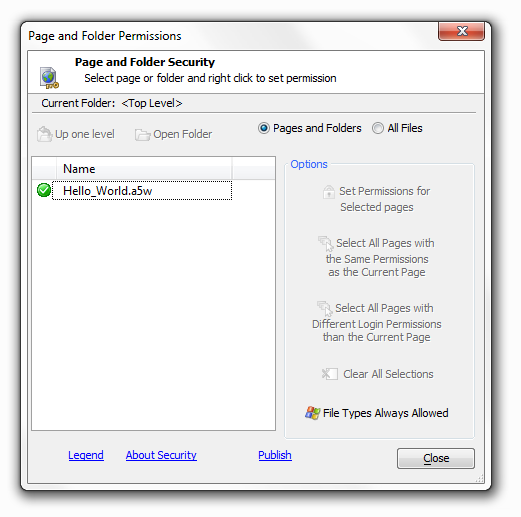
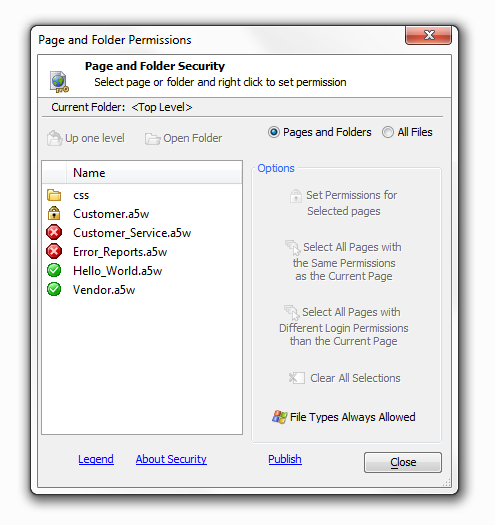
changes to security guide

diff --git a/helpfiles/Server/Guide/Design/Security/Web Application Security Guide.html b/helpfiles/Server/Guide/Design/Security/Web Application Security Guide.html
@@ -105,8 +105,6 @@ appropriate group membership.</p>
 can further require appropriate group membership. </p>
 <p>&nbsp;</p>
 <p>&nbsp;</p>
-<p>&nbsp;</p>
-<p>&nbsp;</p>
 <p>There are a number of easy to use dialogs available to configure the security 
 for a project When a project is initially created there are no security files. 
 The top menu on the Web Projects Control Panel has a Web Security Button. Open 
@@ -576,8 +574,7 @@ the option of creating your own questions.</p>
 default&nbsp; security group or groups for a new user record. This default value 
 would only be used for a new user if no groups were included in the data 
 submitted for the new user. The default group will only be added to new users 
-added by running on the application server. <font color="#FF0000">How to 
-activate security ?</font></p>
+added by running on the application server. </p>
 <p>&nbsp;</p>
 <p><u><i>Enable external user identifier field</i></u>. This option will enable 
 a special field named 'ulink'. The value entered in the 'ulink' can identify a 
@@ -674,14 +671,14 @@ will appear.</p>
 <p align="center">
 <img border="0" src="images/A_Add%20New%20User.png" width="461" height="215"></p>
 <p align="left">2. Enter the User's ID and Email address.</p>
-<p align="left">3. Click Ok. If the email address is not valid you should get 
+<p align="left">3. Click Ok. Adding a user does require a valid email address. If the email address is not valid you should get 
 the following error message.</p>
 <p align="center">
 <img border="0" src="images/A_User%20Error.png" width="304" height="190"></p>
 <p align="left">&nbsp;</p>
 <p>&nbsp;</p>
 <p>&nbsp;</p>
-<p><u><i>Edit User</i></u> -</p>
+<p><u><i>Edit User</i></u> - </p>
 <p><u><i>Delete User</i></u> -</p>
 <h4>Groups</h4>
 <p><u><i>Add Group</i></u> -</p>
@@ -721,7 +718,7 @@ the following error message.</p>
 
 
 <p align="center">
-<img border="0" src="images/A_Page_Folder_Security.png" width="521" height="517"></p>
+<img border="0" src="images/A_Page_Folder_Security.png" width="495" height="525"></p>
 
 <p align="center">Page Security Tab</p>
 <a name="Overview of Page Security"></a><h4>Overview of Page Security</h4>
@@ -771,27 +768,98 @@ additional security options are tested.</p>
 	<p>- Folder permissions are NOT checked for any pages or files in the folder 
 	that have permission set at the page level to 'allow' or to 'login'. Page 
 	permission takes precedence over folder permissions. </p>
-	<p>&nbsp;</p>
 </blockquote>
-<p>&nbsp;</p>
-<p>&nbsp;</p>
 <h4>Implementing Page and Folder Security</h4>
 
-<font color="#FF0000"><u><i>Up one level
+<u><i>Up one level
 
-</i></u>- </font>
-<p><font color="#FF0000"><u><i>Open folder</i></u> - </font></p>
-<p><font color="#FF0000"><u><i>Pages and folders radio button</i></u> - </font>
-</p>
-<p><font color="#FF0000"><u><i>All Files radio button</i></u> - </font></p>
-<p><font color="#FF0000"><u><i>Set Permissions for Selected pages</i></u> -</font></p>
-<p><font color="#FF0000"><u><i>Select All pages with the same Permissions as the 
-Current Page</i></u> - </font></p>
-<p><font color="#FF0000"><u><i>Select All Pages with Different Login Permissions 
-than the Current Page</i></u> -</font></p>
-<p><font color="#FF0000"><u><i>Clear All Selections</i></u> -</font></p>
+</i></u>- Move up one folder level for folders that show up in the 'Page and 
+Folder Permissions' tab.<p>&nbsp;</p>
+<p><u><i>Open folder</i></u> - Open a highlighted folder.</p>
+<p>&nbsp;</p>
+<p><u><i>Pages and folders radio button</i></u> - Shows only pages and folders 
+in the 'Page and Folder Permissions' tab.</p>
+<p>&nbsp;</p>
+<p><u><i>All Files radio button</i></u> - Reveals all files in a given folder, 
+like .png files for example.</p>
+<p>&nbsp;</p>
+<p><u><i>Select All pages with the same Permissions as the 
+Current Page</i></u> - </p>
+<p>&nbsp;</p>
+<p>1. Left click on a page in the 'Page and Folder Permissions' tab. The 'Select 
+All Pages with the Same Permissions as the Current Page' should light up. </p>
+<p align="center">
+<img border="0" src="images/A_PagePermission.png" width="407" height="147"></p>
+<p align="left">&nbsp;</p>
+<p align="left">2. Click on the 'Select All Pages with the Same Permissions as 
+the Current Page' option under the options menu. Now all pages that have the 
+same permission should be highlighted. </p>
+<p align="center">
+<img border="0" src="images/A_PagePermissionAllPages.png" width="408" height="147"></p>
 <p>&nbsp;</p>
 <p>&nbsp;</p>
+<p><u><i>Set a Permission for an Individual Page</i></u> - </p>
+<p>1. Left click on a page to highlight it.</p>
+<p>2. Right click to show the three permission options; 'Always Denied', 'Always 
+Allowed', and 'Requires Login'.</p>
+<p align="center">
+<img border="0" src="images/A_PermissionList.png" width="407" height="151"></p>
+<p align="left">3. Select the option you wish, the selected page should now have 
+this option set as its permission.</p>
+<p>&nbsp;</p>
+<p><u><i>Set Permissions for Selected pages</i></u> - </p>
+<p>&nbsp;</p>
+<p>1. Left click on a page in the 'Page and Folder Permissions' tab. The 'Select 
+All Pages with the Same Permissions as the Current Page' should light up. </p>
+<p align="left">&nbsp;</p>
+<p align="left">2. Click on the 'Select All Pages with the Same Permissions as 
+the Current Page' option under the options menu. Now all pages that have the 
+same permission should be highlighted. The 'Set Permissions for Selected pages' 
+option will become active. </p>
+<p align="center">
+<img border="0" src="images/A_PagePermissionAllPages.png" width="408" height="147"></p>
+<p align="left">3. Click on the 'Set Permissions for Selected pages' option. A 
+list will open with three options: 'Always Denied', 'Always Allowed', and 
+'Requires Login'. Click on the permission you wish to set. All of the files 
+selected should now be set to that permission.</p>
+<p align="center">
+<img border="0" src="images/A_PagePermissionAllPagesDenied.png" width="408" height="183"></p>
+<p align="left">&nbsp;</p>
+<p align="left"><b>Note</b>: If a page is defined as a redirect page in the 
+security settings it must always be allowed. In this example Hello_World.a5w is 
+a redirect page and so can not be altered directly in the 'Page and Folder 
+Permissions' tab. In fact, if you click on a redirect page Alpha Anywhere will 
+only show one option 'Always Allowed by Current Security Settings' on you 
+permissions list.</p>
+<p align="center">
+<img border="0" src="images/A_RedirectPage.png" width="417" height="42"></p>
+<p align="left">&nbsp;</p>
+<p align="left"><u><i>Set Permissions for Pages within Folders</i></u> -</p>
+<p align="left">&nbsp;</p>
+<p align="left">1. Left click on a folder so that it is highlighted.</p>
+<p align="left">2. Right click on the highlighted folder. A list of permission 
+options should appear; 'Deny by Folder', 'Allow All Files in Folder', 'Allow All 
+Files in Folder with Login', and 'Allow Files by Type'.</p>
+<p align="center">
+<img border="0" src="images/A_FolderPermission.png" width="410" height="229"></p>
+<p align="left">3. Click to choose a permission. </p>
+<p align="left">&nbsp;</p>
+<p align="left"><u><i>Allow Files by Type</i></u> - </p>
+<p>&nbsp;</p>
+<p>&nbsp;</p>
+<p><u><i>Select All Pages with Different Login Permissions 
+than the Current Page</i></u> - </p>
+<p>&nbsp;</p>
+<p>1. Left click on a page that has a login option placed on it. If a page has a 
+login required a small lock icon should appear to the left of the file name. The 
+'Select All Pages with Different Login Permissions than the Current Page' option 
+should light up when you do this.</p>
+<p>&nbsp;</p>
+<p>2. Click the 'Select All Pages with Different Login Permissions than the 
+Current Page' option.</p>
+<p>&nbsp;</p>
+<p><u><i>Clear All Selections</i></u> - Clears the selection option on any file 
+selected.</p>
 <p>&nbsp;</p>
 <p><u><i>Page Security Legend </i></u></p>
 <p align="center">
@@ -1092,10 +1160,107 @@ session variable to hold a value from the user security table 'ulink' field if
 the field is activated. This information could then be used for other purposes, 
 such&nbsp;as&nbsp;filtering records for display. 
 &nbsp;</p>
+<a name="Summary"></a><h2>Summary</h2>
+
+<p>Web Application Security provides these high level capabilities.</p>
+<p>&nbsp;</p>
+<p><u><i>Architecture</i></u> - The Application Server enforces all security. 
+There is no need to publish any user access tables. The Application Server tests 
+every page and file request. The developer does not need to write any code or 
+place any code on pages. You may enable or disable security with a single 
+setting in the Application Server Control Panel. Security settings are unique to 
+each project.</p>
+<p>&nbsp;</p>
+<p><u><i>Login</i></u> - Login is an essential first step to providing any type 
+of application security. Login identifies the user and requires a user name. 
+Login may optionally also require a password. The new Login Component Builder 
+simplifies the process of building login dialog components and enforcing login 
+policies. Important password options include:
+</p>
+<blockquote>
+	<p>-You may set rules for validating acceptable login names.
+</p>
+	<p>-You may define when logins expire.
+</p>
+	<p>-You may lock out a user after N failed login attempts.
+</p>
+	<p>-You may log login activity.
+</p>
+	<p>-You may set rules for recovery of lost user names.
+</p>
+	<p>-When login fails, you may redirect all users to a specific page.
+</p>
+	<p>-When a logged in user permission does not allow access to a specific page, you 
+may redirect the user to the the login page or to another page.
+</p>
+	<p>-When login succeeds, you may redirect all users to the same page or each user to 
+a specific page.
+</p>
+	<p>-You may set rules for recovery of lost login names.</p>
+</blockquote>
+<p><u><i>Passwords</i></u> - Passwords are an default part of the login process. 
+Important password options include:
+</p>
+<blockquote>
+	<p>-You may encrypt passwords.
+</p>
+	<p>-You may set rules for validating acceptable passwords.
+</p>
+	<p>-Passwords may expire after a specified period of time.
+</p>
+	<p>-You may prevent passwords from being reused.
+</p>
+	<p>-You may set rules for recovery of lost passwords.</p>
+</blockquote>
+<p><u><i>Users and Groups</i></u> - A user may belong to one or more groups. You 
+may grant access to a page, a control on a component, or a menu entry to one or 
+more groups. Whether or not a user belongs to a group depends on whether it is 
+important to selectively provide access to specific pages.</p>
+<p>&nbsp;</p>
+<p><u><i>Login Component</i></u> - The Login Component Builder provides support 
+for nearly every login option.
+The Login View presents the familiar request for user ID and, optionally, 
+password.
+The optional Change Password View allows a user to change a password.
+The optional Recover Login Information allows a user to make a request for user 
+ID and/ or password.
+Each view may have its own style sheet.
+All views may have Freeform designs.
+You may customize all text used in the login component to support non-English 
+language applications.</p>
+<p>&nbsp;</p>
+<p><u><i>Pages</i></u> - There are many aspects of page security.
+You may place the pages of your web application into one of three categories: 
+access not defined, login not required, and login required.
+If a page requires login, you must specify one or more groups of users which are 
+allowed to access the page.</p>
+<p>&nbsp;</p>
+<p><u><i>Utilities</i></u> - Alpha Anywhere provides the Web Users and Groups 
+dialog that you may use to enter, edit, or export basic user security 
+information. You can also retrieve any user data added or edited on the web and 
+update local user data. An import option exists to import security data from the 
+server back to the project.</p>
+<p>&nbsp;</p>
+<p><u><i>Functions </i></u>- There is a large set of web application functions 
+that will enable the developer to enter, edit, and validate web users from page 
+scripts.</p>
+<p>&nbsp;</p>
+<p><u><i>Other Administrative Features</i></u> - The web application 
+administrator may also lock out any user by user Id or unlock any user who is 
+locked out.</p>
+<p>&nbsp;</p>
+<p>&nbsp;</p>
+<p>&nbsp;</p>
+<p>&nbsp;</p>
+<p>&nbsp;</p>
+<p>&nbsp;</p>
+<p>&nbsp;</p>
+<p>&nbsp;</p>
 <p>&nbsp;</p>
 <p>&nbsp;</p>
 
-	
+
+
 <!-- Put JS at the end -->
 	
 <!-- jsfile external -->
@@ -1104,4 +1269,5 @@ such&nbsp;as&nbsp;filtering records for display.
 <!-- jsfile dynamic -->
 <!-- jsfile 0 -->
 <!---HELPMETADATA:{"tags":"web","status":"pending","keywords":"server,security,guide,sql"}--->
+
 </body></html>
